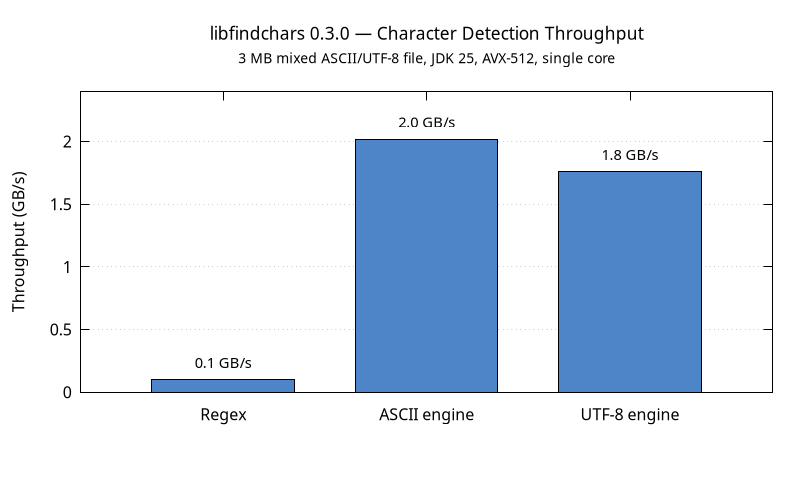
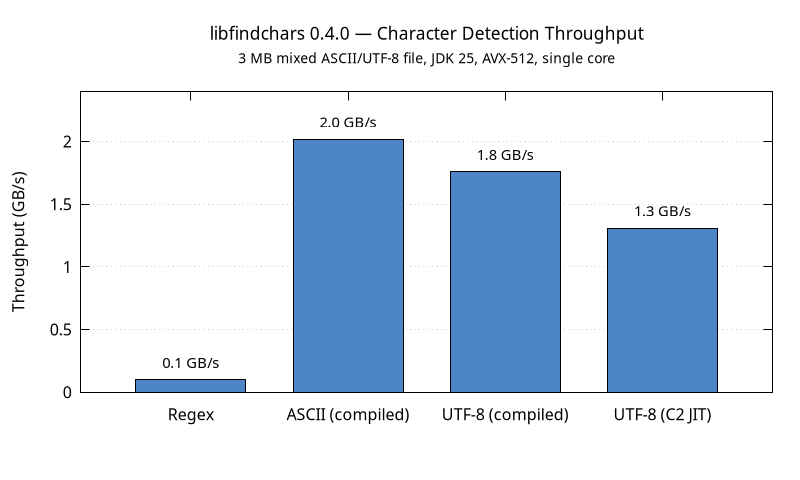
Add C2 JIT benchmark results to README and gnuplot
UTF-8 C2 JIT engine (Utf8EngineTemplate without bytecode specialization)
benchmarks at 436 ops/s (~1.3 GB/s), ~25% slower than the compiled path.

diff --git a/README.md b/README.md
@@ -126,6 +126,7 @@ Benchmark
 
 JMH benchmark on a 3 MB mixed ASCII/UTF-8 file. ASCII benchmark detects 26 ASCII characters
 (2 shuffle groups + 1 range operation). UTF-8 benchmark adds 5 multi-byte characters (2-byte and 3-byte).
+C2 JIT uses `Utf8EngineTemplate` directly without bytecode specialization.
 Environment: JDK 25, AVX-512, single core.
 
 ![benchmark](./libfindchars-bench/benchmark.png)
@@ -134,8 +135,11 @@ Environment: JDK 25, AVX-512, single core.
 |--------------------|------:|------------|
 | ASCII compiled     |   672 | ~2.0 GB/s  |
 | UTF-8 compiled     |   586 | ~1.8 GB/s  |
+| UTF-8 C2 JIT      |   436 | ~1.3 GB/s  |
 | Regex baseline     |    33 | ~0.1 GB/s  |
 
 The compiled engines use bytecode-generated SIMD kernels via `BytecodeInliner`,
-eliminating all virtual dispatch overhead. The compiled engines outperform
-compiled regex by roughly **18-20x**.
+eliminating all virtual dispatch overhead. The C2 JIT engine uses `Utf8EngineTemplate`
+directly without bytecode specialization — still fast, but ~25% slower than the compiled
+path due to virtual dispatch and unspecialized loops. All SIMD engines outperform
+compiled regex by roughly **13-20x**.
